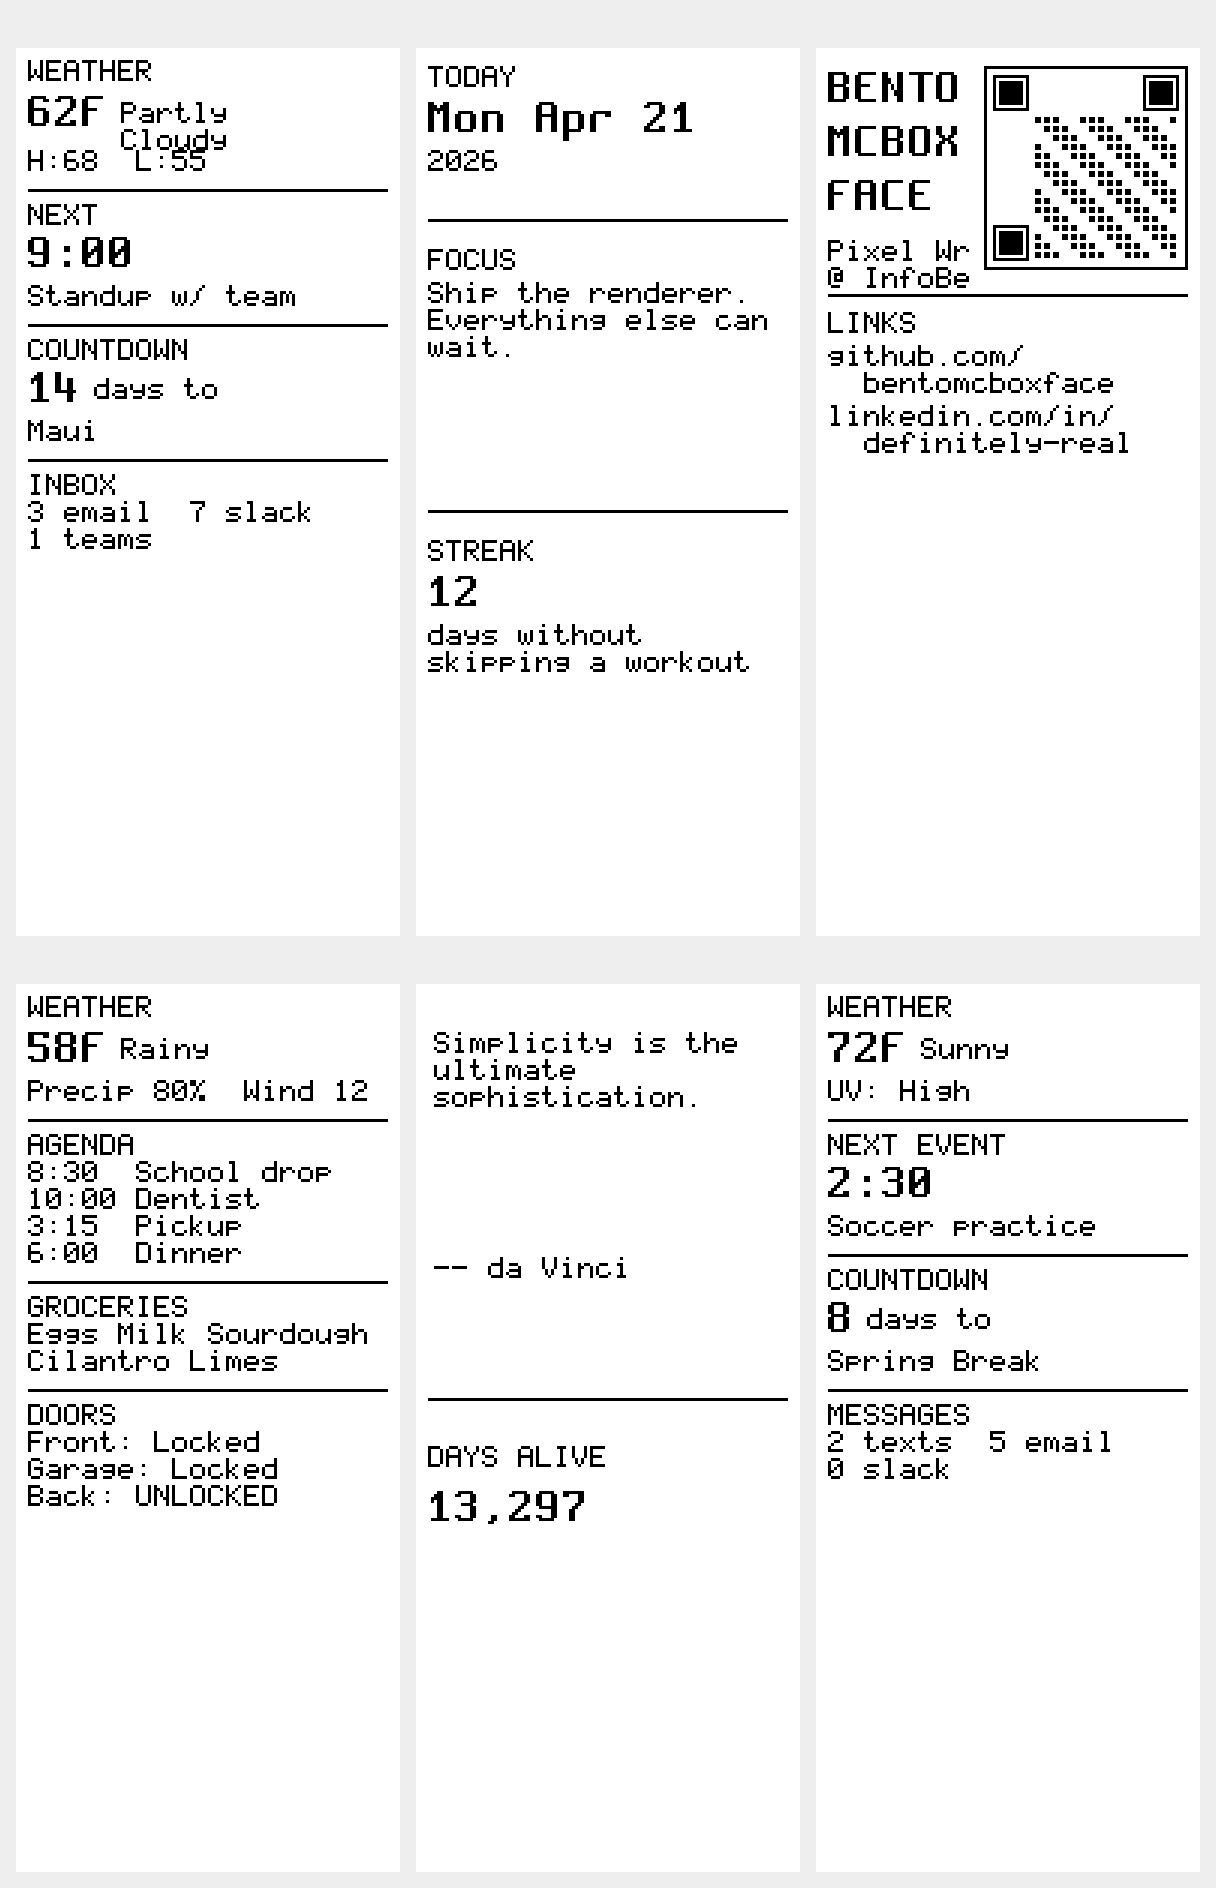
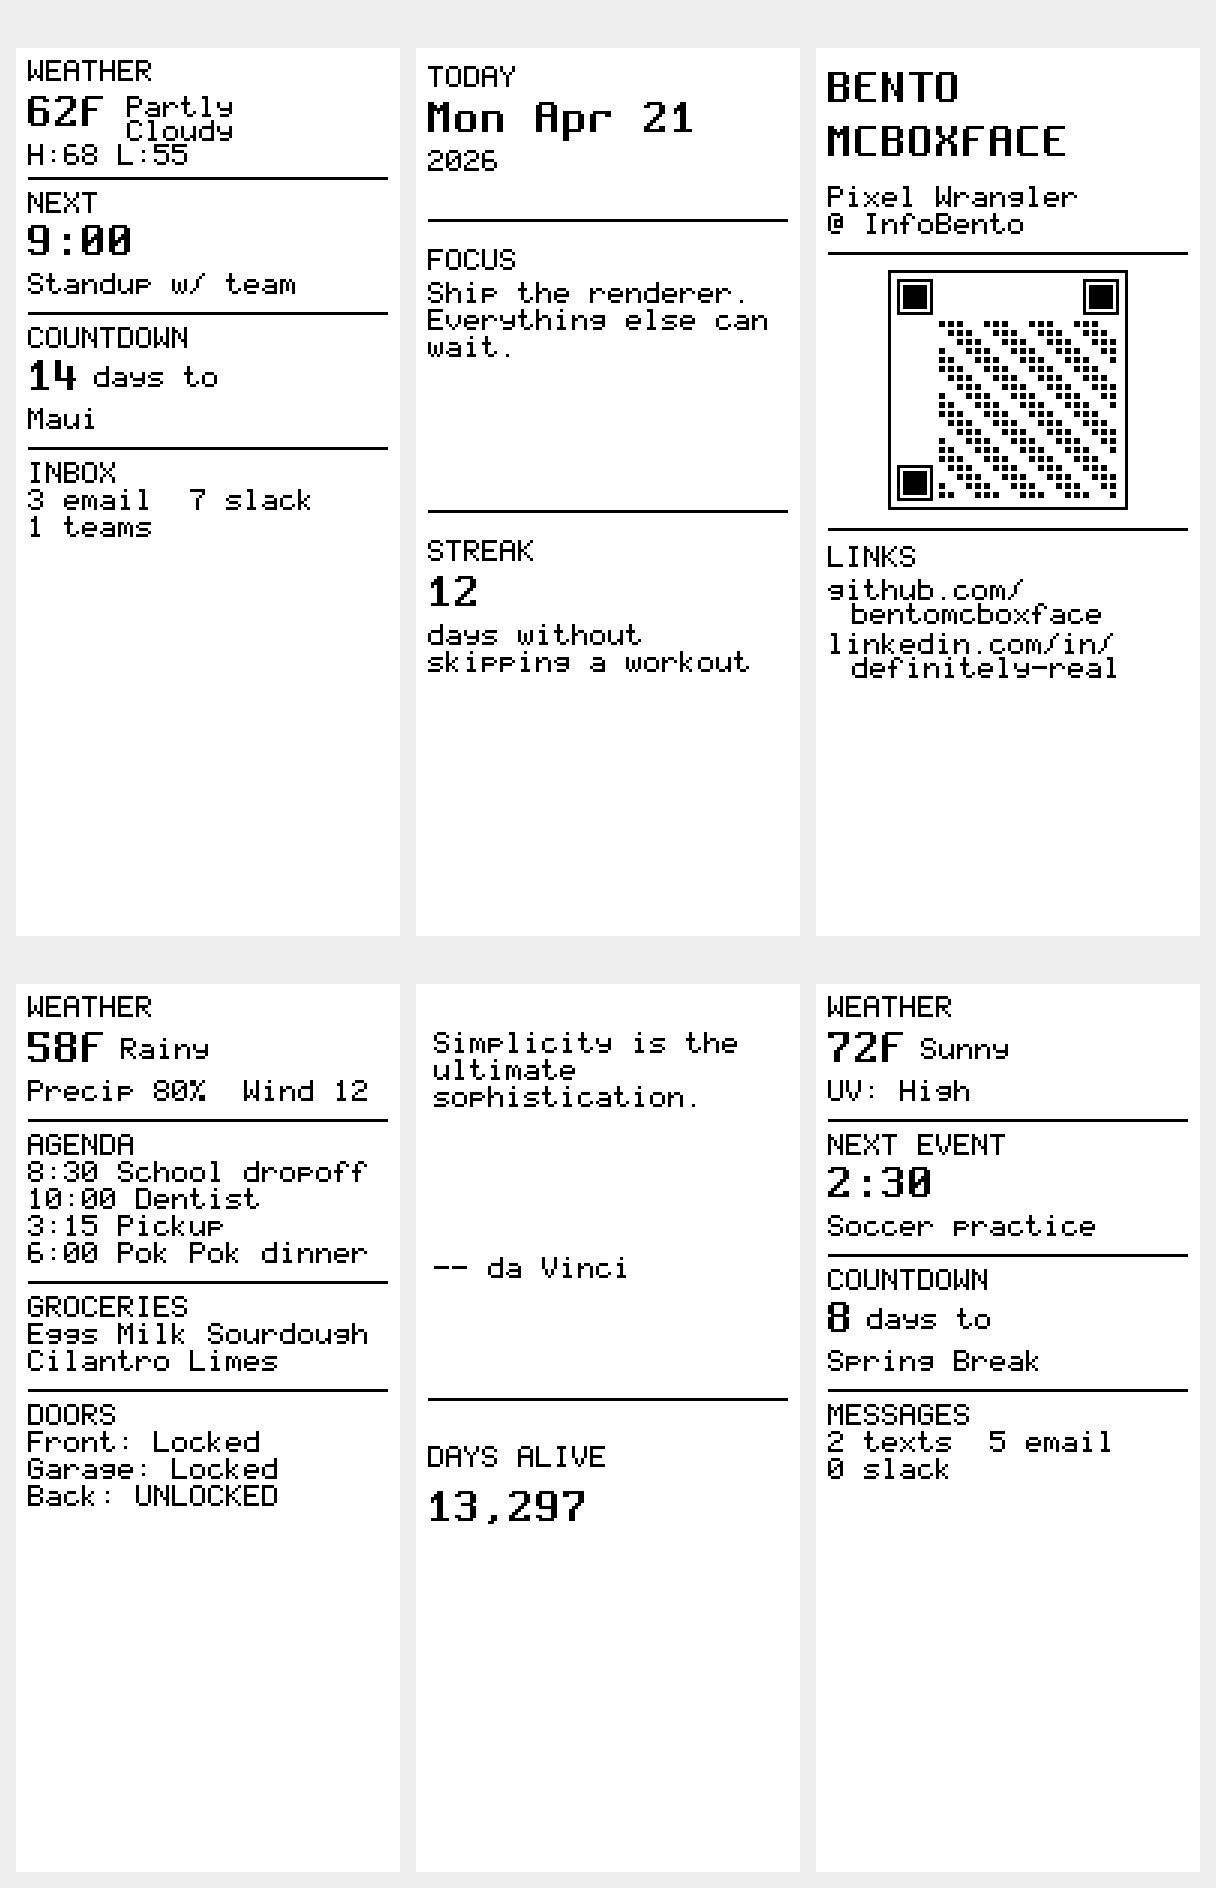
fix(preview): fix layout issues in commuter, networking, kitchen cards
A: fix Partly/Cloudy overlap with H:68 L:55 line
C: restructure — name full-width hero, QR centered below, links
   with manual line breaks to avoid mid-word wrapping
D: abbreviate agenda items to fit 128px width

diff --git a/scripts/generate-previews.ts b/scripts/generate-previews.ts
@@ -91,15 +91,16 @@ function renderCommuter(): FrameBuffer {
   const fb = createFrameBuffer();
   let y = 4;
 
-  // Section 1: Weather — hero temperature + conditions below
+  // Section 1: Weather — hero temp + condition beside, H/L on own line
   drawLabel(fb, 4, y, 'weather');
   y += FONT_HEIGHT + 3;
   drawHeroText(fb, 4, y, '62F');
-  drawText(fb, 4 + heroWidth('62F') + 4, y + 4, 'Partly', W - 8);
-  drawText(fb, 4 + heroWidth('62F') + 4, y + 4 + FONT_HEIGHT + 2, 'Cloudy', W - 8);
-  y += HERO_H + 4;
-  drawText(fb, 4, y, 'H:68  L:55', W - 8);
-  y += FONT_HEIGHT + 6;
+  const condX = 4 + heroWidth('62F') + 6;
+  drawText(fb, condX, y + 2, 'Partly', W - condX);
+  drawText(fb, condX, y + 2 + FONT_HEIGHT + 1, 'Cloudy', W - condX);
+  y += HERO_H + 2;
+  drawText(fb, 4, y, 'H:68 L:55', W - 8);
+  y += FONT_HEIGHT + 4;
 
   drawRule(fb, 4, y, W - 8);
   y += 5;
@@ -183,42 +184,42 @@ function renderDesk(): FrameBuffer {
 // ============================================================
 function renderNetworking(): FrameBuffer {
   const fb = createFrameBuffer();
-  const qrSize = 68;
-  const qrX = W - qrSize - 4;
-  const textW = qrX - 8;
+  const qrSize = 80;
 
-  // Top section: name on left, QR on right
+  // Name in hero — two lines, full width
   let y = 6;
   drawHeroText(fb, 4, y, 'BENTO');
   y += HERO_H + 2;
-  drawHeroText(fb, 4, y, 'MCBOX');
-  y += HERO_H + 2;
-  drawHeroText(fb, 4, y, 'FACE');
+  drawHeroText(fb, 4, y, 'MCBOXFACE');
   y += HERO_H + 6;
 
-  // Title below name
-  drawText(fb, 4, y, 'Pixel Wrangler', textW);
+  // Title — full width, below name
+  drawText(fb, 4, y, 'Pixel Wrangler', W - 8);
   y += FONT_HEIGHT + 2;
-  drawText(fb, 4, y, '@ InfoBento', textW);
+  drawText(fb, 4, y, '@ InfoBento', W - 8);
+  y += FONT_HEIGHT + 6;
 
-  // QR on the right, vertically centered with name block
-  drawFakeQR(fb, qrX, 6, qrSize);
+  drawRule(fb, 4, y, W - 8);
+  y += 6;
 
-  // Rule across full width
-  const ruleY = 6 + qrSize + 8;
-  drawRule(fb, 4, ruleY, W - 8);
+  // QR centered
+  const qrCenterX = Math.floor((W - qrSize) / 2);
+  drawFakeQR(fb, qrCenterX, y, qrSize);
+  y += qrSize + 6;
 
-  // Links section below
-  let linkY = ruleY + 6;
-  drawLabel(fb, 4, linkY, 'links');
-  linkY += FONT_HEIGHT + 4;
-  drawText(fb, 4, linkY, 'github.com/', W - 8);
-  linkY += FONT_HEIGHT + 2;
-  drawText(fb, 4, linkY, '  bentomcboxface', W - 8);
-  linkY += FONT_HEIGHT + 4;
-  drawText(fb, 4, linkY, 'linkedin.com/in/', W - 8);
-  linkY += FONT_HEIGHT + 2;
-  drawText(fb, 4, linkY, '  definitely-real', W - 8);
+  drawRule(fb, 4, y, W - 8);
+  y += 6;
+
+  // Links section — manually split to avoid mid-word wrap
+  drawLabel(fb, 4, y, 'links');
+  y += FONT_HEIGHT + 4;
+  drawText(fb, 4, y, 'github.com/', W - 8);
+  y += FONT_HEIGHT + 1;
+  drawText(fb, 12, y, 'bentomcboxface', W - 16);
+  y += FONT_HEIGHT + 3;
+  drawText(fb, 4, y, 'linkedin.com/in/', W - 8);
+  y += FONT_HEIGHT + 1;
+  drawText(fb, 12, y, 'definitely-real', W - 16);
 
   return fb;
 }
@@ -246,13 +247,13 @@ function renderKitchen(): FrameBuffer {
   // Section 2: Agenda
   drawLabel(fb, 4, y, 'agenda');
   y += FONT_HEIGHT + 2;
-  drawText(fb, 4, y, '8:30  School drop', W - 8);
+  drawText(fb, 4, y, '8:30 School dropoff', W - 8);
   y += FONT_HEIGHT + 2;
   drawText(fb, 4, y, '10:00 Dentist', W - 8);
   y += FONT_HEIGHT + 2;
-  drawText(fb, 4, y, '3:15  Pickup', W - 8);
+  drawText(fb, 4, y, '3:15 Pickup', W - 8);
   y += FONT_HEIGHT + 2;
-  drawText(fb, 4, y, '6:00  Dinner', W - 8);
+  drawText(fb, 4, y, '6:00 Pok Pok dinner', W - 8);
   y += FONT_HEIGHT + 6;
 
   drawRule(fb, 4, y, W - 8);
